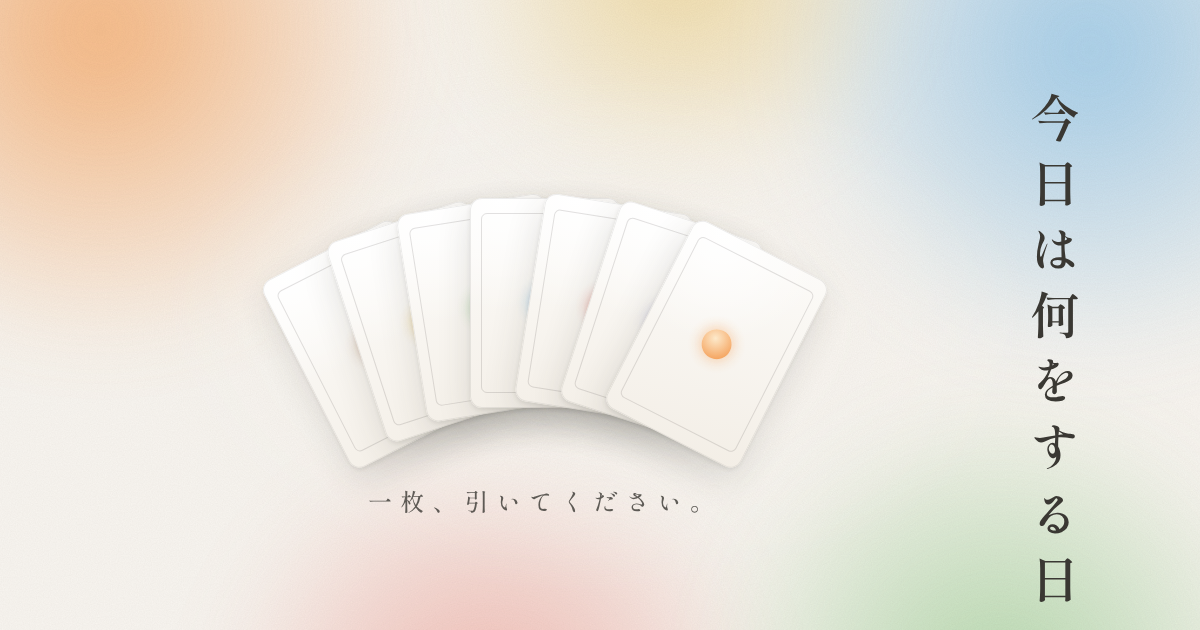
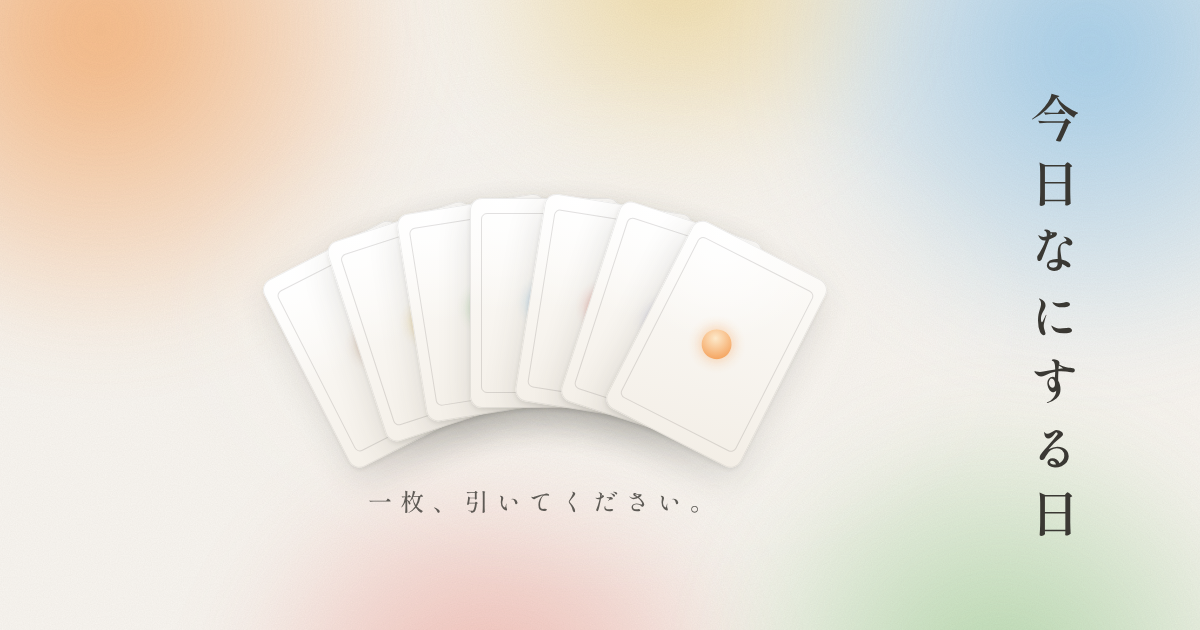
Add files via upload

diff --git a/privacy.html b/privacy.html
@@ -1,0 +1,155 @@
+<!doctype html>
+<html lang="ja">
+<head>
+<meta charset="utf-8">
+<meta name="viewport" content="width=device-width, initial-scale=1, viewport-fit=cover">
+<title>プライバシーポリシー｜今日なにする日</title>
+<meta name="description" content="iPhone・iPad アプリ「今日なにする日」のプライバシーポリシーです。">
+<meta name="theme-color" content="#f8f5f0">
+<link rel="icon" type="image/png" href="apple-touch-icon.png">
+<link rel="apple-touch-icon" href="apple-touch-icon.png">
+<link rel="preconnect" href="https://fonts.googleapis.com">
+<link rel="preconnect" href="https://fonts.gstatic.com" crossorigin>
+<link rel="stylesheet" href="https://fonts.googleapis.com/css2?family=Shippori+Mincho:wght@400;500;600&display=swap">
+<style>
+/* 文書のページ。曜日の色がにじむ地の上に、紙を一枚置いて読む。 */
+:root {
+  --bg: #f8f5f0;
+  --paper: rgba(255, 255, 255, .78);
+  --ink: #3a3833;
+  --sub: #6b665d;
+  --line: rgba(58, 56, 51, .14);
+  --mark: #c98a5a;
+  --font: "Shippori Mincho", "Hiragino Mincho ProN", "Yu Mincho", "YuMincho", "Noto Serif JP", serif;
+  color-scheme: light;
+}
+*, *::before, *::after { box-sizing: border-box; }
+html { -webkit-text-size-adjust: 100%; }
+body {
+  margin: 0; min-height: 100vh;
+  background: var(--bg); color: var(--ink);
+  font-family: var(--font); font-size: 16px; line-height: 1.95;
+  padding-left: max(16px, env(safe-area-inset-left, 0px));
+  padding-right: max(16px, env(safe-area-inset-right, 0px));
+  padding-block: calc(env(safe-area-inset-top, 0px) + 40px) calc(env(safe-area-inset-bottom, 0px) + 48px);
+}
+body::before {
+  content: ""; position: fixed; inset: 0; z-index: -1; pointer-events: none;
+  background:
+    radial-gradient(40vmax 34vmax at 0% 0%, rgba(245, 160, 88, .38), transparent 70%),
+    radial-gradient(40vmax 34vmax at 100% 4%, rgba(125, 187, 230, .36), transparent 70%),
+    radial-gradient(42vmax 34vmax at 100% 100%, rgba(150, 204, 142, .32), transparent 70%),
+    radial-gradient(36vmax 30vmax at 20% 100%, rgba(233, 118, 106, .2), transparent 70%);
+  filter: blur(8px);
+}
+.doc {
+  max-width: 680px; margin: 0 auto;
+  background: var(--paper);
+  border: 1px solid rgba(255, 255, 255, .8);
+  border-radius: 20px;
+  box-shadow: 0 18px 50px rgba(58, 56, 51, .08), 0 1px 3px rgba(58, 56, 51, .06);
+  padding: clamp(28px, 6vw, 56px) clamp(20px, 6vw, 56px);
+}
+.eyebrow { margin: 0; font-size: 13px; letter-spacing: .3em; color: var(--sub); }
+.eyebrow a { color: inherit; text-decoration: none; }
+.eyebrow a:hover { text-decoration: underline; }
+h1 { margin: 6px 0 0; font-size: clamp(24px, 5.5vw, 30px); font-weight: 600; letter-spacing: .12em; line-height: 1.5; text-wrap: balance; }
+.updated { margin: 10px 0 0; font-size: 13px; color: var(--sub); letter-spacing: .08em; }
+.lead { margin: 28px 0 0; }
+section { margin-top: 36px; padding-top: 28px; border-top: 1px solid var(--line); }
+h2 { display: flex; align-items: baseline; gap: 10px; margin: 0; font-size: 18px; font-weight: 600; letter-spacing: .08em; line-height: 1.6; }
+h2::before { content: ""; flex: none; width: 8px; height: 8px; border-radius: 50%; background: var(--mark); transform: translateY(-2px); }
+p { margin: 12px 0 0; }
+ul, ol { margin: 12px 0 0; padding-left: 1.4em; }
+li + li { margin-top: 6px; }
+.path { white-space: nowrap; }
+a { color: #8a5a3c; text-underline-offset: 3px; }
+.mail { font-size: 17px; letter-spacing: .02em; word-break: break-all; user-select: all; -webkit-user-select: all; }
+.note { font-size: 14px; color: var(--sub); }
+footer { max-width: 680px; margin: 24px auto 0; display: flex; flex-wrap: wrap; justify-content: center; gap: 8px 22px; font-size: 13px; letter-spacing: .1em; }
+footer a { color: var(--sub); text-decoration: none; }
+footer a:hover, footer a:focus-visible { text-decoration: underline; }
+a:focus-visible { outline: 2px solid var(--ink); outline-offset: 3px; border-radius: 3px; }
+</style>
+</head>
+<body>
+<main class="doc">
+  <p class="eyebrow"><a href="./">今日なにする日</a></p>
+  <h1>プライバシーポリシー</h1>
+  <p class="updated">最終更新日：2026年11月　運営者：まいら</p>
+
+  <p class="lead">iPhone・iPad アプリ「今日なにする日」（以下「本アプリ」）は、利用者のプライバシーを尊重し、個人情報の保護に努めます。</p>
+
+  <section>
+    <h2>収集する情報</h2>
+    <p>本アプリは、氏名・メールアドレス・電話番号・位置情報などの個人情報を収集しません。アカウントの登録もありません。</p>
+  </section>
+
+  <section>
+    <h2>本アプリが保存する情報</h2>
+    <p>本アプリは、次の情報を保存します。</p>
+    <ul>
+      <li>引いたカードのお題と、引いた日時</li>
+      <li>利用者が書いた「ひとこと」</li>
+      <li>夜のお知らせのオン・オフと時刻</li>
+    </ul>
+    <p>お題・日時・ひとことは、お使いの端末の中と、利用者ご自身の iCloud（Apple のサービス）に保存されます。iCloud に保存するのは、同じ Apple アカウントでサインインしている iPhone や iPad で、同じ記録を見られるようにするためです。iCloud に保存された記録は、利用者ご本人の Apple アカウントでしか読むことができず、運営者が見ることはできません。</p>
+    <p>お知らせの設定は、お使いの端末の中にだけ保存されます。</p>
+  </section>
+
+  <section>
+    <h2>通信について</h2>
+    <ul>
+      <li>お題の一覧を最新の状態にするため、運営者が GitHub Pages（GitHub, Inc. のサービス）に置いているお題のファイルを読み込みます。このとき、本アプリから利用者の情報を送ることはありません。ただし、一般的な Web サイトへのアクセスと同じように、GitHub がアクセス元の IP アドレスなどを記録する場合があります。</li>
+      <li>iCloud との同期は Apple の仕組みで行われ、Apple のプライバシーポリシーが適用されます。</li>
+    </ul>
+  </section>
+
+  <section>
+    <h2>夜のお知らせについて</h2>
+    <p>夜のお知らせは、お使いの端末の中で予約して表示するものです。運営者のサーバーから送るものではありません。お知らせは、端末の「設定」からいつでも止められます。</p>
+  </section>
+
+  <section>
+    <h2>X などへの共有について</h2>
+    <p>「Xで宣言する」を押すと、X（旧 Twitter）の投稿画面が開きます。共有ボタンを押すと、iPhone・iPad の共有画面が開きます。どちらも、投稿や送信をするかどうかは利用者が決めるもので、本アプリが自動で投稿・送信することはありません。投稿した内容には、投稿先のサービスのプライバシーポリシーが適用されます。</p>
+  </section>
+
+  <section>
+    <h2>第三者への提供・広告・解析</h2>
+    <p>本アプリは、広告や、利用状況を分析するためのツールを使用していません。利用者の情報を第三者に提供することもありません。</p>
+    <p>なお、利用者が端末の設定で「App デベロッパと共有」をオンにしている場合、本アプリが異常終了したときの報告（クラッシュ情報）が、Apple を通じて運営者に届くことがあります。この報告は、不具合を直すためにだけ使います。</p>
+  </section>
+
+  <section>
+    <h2>記録の削除</h2>
+    <ul>
+      <li>端末の中の記録は、本アプリを削除すると消えます。</li>
+      <li>iCloud に保存された記録は、iPhone・iPad の「設定」→ 自分の名前 →「iCloud」→「アカウントのストレージを管理」→「今日なにする日」から削除できます。</li>
+    </ul>
+  </section>
+
+  <section>
+    <h2>本ポリシーの変更</h2>
+    <p>本ポリシーの内容を変更する場合は、このページでお知らせします。</p>
+  </section>
+
+  <section>
+    <h2>Web版について</h2>
+    <p>Web版の「今日なにする日」（このサイト）では、引いたカードとお題を、お使いのブラウザの中にだけ記録します。記録は1週間ほどで消え、運営者に送られることはありません。ページの表示のために、Google Fonts（Google のサービス）から文字の形（フォント）を読み込みます。このとき、GitHub や Google が IP アドレスなどのアクセス情報を記録する場合があります。</p>
+  </section>
+
+  <section>
+    <h2>お問い合わせ</h2>
+    <p>本ポリシーに関するご質問は、下記のメールアドレスまでご連絡ください。</p>
+    <p><a class="mail" href="mailto:myramyra9myramyra@gmail.com">myramyra9myramyra@gmail.com</a></p>
+    <p class="note">よくあるご質問は、<a href="support.html">サポートページ</a>にまとめています。</p>
+  </section>
+</main>
+<footer>
+  <a href="./">今日なにする日</a>
+  <a href="support.html">サポート</a>
+  <a href="privacy.html" aria-current="page">プライバシーポリシー</a>
+</footer>
+</body>
+</html>

diff --git a/support.html b/support.html
@@ -1,0 +1,153 @@
+<!doctype html>
+<html lang="ja">
+<head>
+<meta charset="utf-8">
+<meta name="viewport" content="width=device-width, initial-scale=1, viewport-fit=cover">
+<title>サポート｜今日なにする日</title>
+<meta name="description" content="iPhone・iPad アプリ「今日なにする日」のよくあるご質問と、お問い合わせ先です。">
+<meta name="theme-color" content="#f8f5f0">
+<link rel="icon" type="image/png" href="apple-touch-icon.png">
+<link rel="apple-touch-icon" href="apple-touch-icon.png">
+<link rel="preconnect" href="https://fonts.googleapis.com">
+<link rel="preconnect" href="https://fonts.gstatic.com" crossorigin>
+<link rel="stylesheet" href="https://fonts.googleapis.com/css2?family=Shippori+Mincho:wght@400;500;600&display=swap">
+<style>
+/* 文書のページ。曜日の色がにじむ地の上に、紙を一枚置いて読む。 */
+:root {
+  --bg: #f8f5f0;
+  --paper: rgba(255, 255, 255, .78);
+  --ink: #3a3833;
+  --sub: #6b665d;
+  --line: rgba(58, 56, 51, .14);
+  --mark: #c98a5a;
+  --font: "Shippori Mincho", "Hiragino Mincho ProN", "Yu Mincho", "YuMincho", "Noto Serif JP", serif;
+  color-scheme: light;
+}
+*, *::before, *::after { box-sizing: border-box; }
+html { -webkit-text-size-adjust: 100%; }
+body {
+  margin: 0; min-height: 100vh;
+  background: var(--bg); color: var(--ink);
+  font-family: var(--font); font-size: 16px; line-height: 1.95;
+  padding-left: max(16px, env(safe-area-inset-left, 0px));
+  padding-right: max(16px, env(safe-area-inset-right, 0px));
+  padding-block: calc(env(safe-area-inset-top, 0px) + 40px) calc(env(safe-area-inset-bottom, 0px) + 48px);
+}
+body::before {
+  content: ""; position: fixed; inset: 0; z-index: -1; pointer-events: none;
+  background:
+    radial-gradient(40vmax 34vmax at 0% 0%, rgba(245, 160, 88, .38), transparent 70%),
+    radial-gradient(40vmax 34vmax at 100% 4%, rgba(125, 187, 230, .36), transparent 70%),
+    radial-gradient(42vmax 34vmax at 100% 100%, rgba(150, 204, 142, .32), transparent 70%),
+    radial-gradient(36vmax 30vmax at 20% 100%, rgba(233, 118, 106, .2), transparent 70%);
+  filter: blur(8px);
+}
+.doc {
+  max-width: 680px; margin: 0 auto;
+  background: var(--paper);
+  border: 1px solid rgba(255, 255, 255, .8);
+  border-radius: 20px;
+  box-shadow: 0 18px 50px rgba(58, 56, 51, .08), 0 1px 3px rgba(58, 56, 51, .06);
+  padding: clamp(28px, 6vw, 56px) clamp(20px, 6vw, 56px);
+}
+.eyebrow { margin: 0; font-size: 13px; letter-spacing: .3em; color: var(--sub); }
+.eyebrow a { color: inherit; text-decoration: none; }
+.eyebrow a:hover { text-decoration: underline; }
+h1 { margin: 6px 0 0; font-size: clamp(24px, 5.5vw, 30px); font-weight: 600; letter-spacing: .12em; line-height: 1.5; text-wrap: balance; }
+.updated { margin: 10px 0 0; font-size: 13px; color: var(--sub); letter-spacing: .08em; }
+.lead { margin: 28px 0 0; }
+section { margin-top: 36px; padding-top: 28px; border-top: 1px solid var(--line); }
+h2 { display: flex; align-items: baseline; gap: 10px; margin: 0; font-size: 18px; font-weight: 600; letter-spacing: .08em; line-height: 1.6; }
+h2::before { content: ""; flex: none; width: 8px; height: 8px; border-radius: 50%; background: var(--mark); transform: translateY(-2px); }
+p { margin: 12px 0 0; }
+ul, ol { margin: 12px 0 0; padding-left: 1.4em; }
+li + li { margin-top: 6px; }
+.path { white-space: nowrap; }
+a { color: #8a5a3c; text-underline-offset: 3px; }
+.mail { font-size: 17px; letter-spacing: .02em; word-break: break-all; user-select: all; -webkit-user-select: all; }
+.note { font-size: 14px; color: var(--sub); }
+footer { max-width: 680px; margin: 24px auto 0; display: flex; flex-wrap: wrap; justify-content: center; gap: 8px 22px; font-size: 13px; letter-spacing: .1em; }
+footer a { color: var(--sub); text-decoration: none; }
+footer a:hover, footer a:focus-visible { text-decoration: underline; }
+a:focus-visible { outline: 2px solid var(--ink); outline-offset: 3px; border-radius: 3px; }
+</style>
+</head>
+<body>
+<main class="doc">
+  <p class="eyebrow"><a href="./">今日なにする日</a></p>
+  <h1>サポート</h1>
+  <p class="updated">運営者：まいら</p>
+
+  <p class="lead">「今日なにする日」をご利用いただき、ありがとうございます。よくあるご質問をまとめました。</p>
+
+  <section>
+    <h2>カードを引き直したい</h2>
+    <p>カードを引けるのは、1日に1枚だけです。日付が変わると、新しいカードを引けます。</p>
+  </section>
+
+  <section>
+    <h2>友だちと同じお題が出ない</h2>
+    <p>お題は、カードを引いたときにランダムで決まるので、人によって違うお題が出ます。また、すべてのお題をひととおり引き終えるまで、同じお題は出ません。</p>
+  </section>
+
+  <section>
+    <h2>「ひとこと」を書くには</h2>
+    <p>次の3つの方法で書けます。</p>
+    <ul>
+      <li>今日画面で、引いたカードをタップする（カードが裏返って、書く画面が開きます）</li>
+      <li>夜のお知らせをタップする</li>
+      <li>左上のボタンからカレンダーを開き、日付をタップする</li>
+    </ul>
+    <p>書いた内容は、自動で保存されます。</p>
+  </section>
+
+  <section>
+    <h2>夜のお知らせが届かない</h2>
+    <p>夜のお知らせは、カードを引いた日の夜に1回だけ届きます。次の場合は届きません。</p>
+    <ul>
+      <li>その日のカードを引いていない</li>
+      <li>お知らせの時刻より前に、ひとことを書き終えている</li>
+      <li>お知らせの時刻を過ぎてから、カードを引いた</li>
+    </ul>
+    <p>それでも届かない場合は、次をご確認ください。</p>
+    <ul>
+      <li>カレンダー画面の右上の歯車から設定を開き、「夜のお知らせ」がオンになっているか</li>
+      <li>iPhone の「設定」→「通知」→「今日なにする日」で、通知が許可されているか</li>
+      <li>集中モードなどで、通知を止めていないか</li>
+    </ul>
+  </section>
+
+  <section>
+    <h2>これまでのお題とひとことを見たい</h2>
+    <p>左上のボタンからカレンダーを開くと、カードを引いた日に小さなカードが並びます。ひとことを書いた日には、インクの点が付きます。日付をタップすると、その日のお題とひとことを見られます。</p>
+  </section>
+
+  <section>
+    <h2>iPad など、ほかの端末に記録が出ない</h2>
+    <p>記録は iCloud を通じて、同じ Apple アカウントでサインインしている iPhone・iPad の間で共有されます。次をご確認ください。</p>
+    <ul>
+      <li>どちらの端末も、同じ Apple アカウントで iCloud にサインインしているか</li>
+      <li>「設定」→ 自分の名前 →「iCloud」の「iCloud を使用している App」で、「今日なにする日」がオンになっているか</li>
+    </ul>
+    <p>記録が届くまで、少し時間がかかることがあります。アプリを一度閉じて開き直すと、届くことがあります。</p>
+  </section>
+
+  <section>
+    <h2>機種変更をしたとき</h2>
+    <p>新しい端末で、前と同じ Apple アカウントで iCloud にサインインしてから本アプリを入れると、これまでの記録が戻ります。記録が届くまで、少し時間がかかることがあります。</p>
+  </section>
+
+  <section>
+    <h2>その他のお問い合わせ</h2>
+    <p>上記で解決しない場合や、ご意見・ご感想は、下記のメールアドレスまでご連絡ください。</p>
+    <p><a class="mail" href="mailto:myramyra9myramyra@gmail.com">myramyra9myramyra@gmail.com</a></p>
+    <p class="note">情報の取り扱いについては、<a href="privacy.html">プライバシーポリシー</a>をご覧ください。</p>
+  </section>
+</main>
+<footer>
+  <a href="./">今日なにする日</a>
+  <a href="support.html" aria-current="page">サポート</a>
+  <a href="privacy.html">プライバシーポリシー</a>
+</footer>
+</body>
+</html>

diff --git a/index.html b/index.html
@@ -3,7 +3,7 @@
 <head>
 <meta charset="utf-8">
 <meta name="viewport" content="width=device-width, initial-scale=1, viewport-fit=cover">
-<title>今日は何をする日</title>
+<title>今日なにする日</title>
 <meta name="description" content="毎日一枚カードを引いて、今日することを決めるページ。役には立たないけれど、いつもの景色が少し違って見えるお題が出ます。">
 <meta name="theme-color" content="#f2f8f0">
 
@@ -16,19 +16,19 @@
 
 <meta property="og:type" content="website">
 <meta property="og:locale" content="ja_JP">
-<meta property="og:site_name" content="今日は何をする日">
-<meta property="og:title" content="今日は何をする日">
+<meta property="og:site_name" content="今日なにする日">
+<meta property="og:title" content="今日なにする日">
 <meta property="og:description" content="毎日一枚カードを引いて、今日することを決めるページ。役には立たないけれど、いつもの景色が少し違って見えるお題が出ます。">
 <meta property="og:image:width" content="1200">
 <meta property="og:image:height" content="630">
-<meta property="og:image:alt" content="伏せられたカードが扇形に並び、「今日は何をする日」と縦書きで添えられた画像">
+<meta property="og:image:alt" content="伏せられたカードが扇形に並び、「今日なにする日」と縦書きで添えられた画像">
 <meta name="twitter:card" content="summary_large_image">
-<meta name="twitter:title" content="今日は何をする日">
+<meta name="twitter:title" content="今日なにする日">
 <meta name="twitter:description" content="毎日一枚カードを引いて、今日することを決めるページ。">
 
 <link rel="icon" type="image/png" href="apple-touch-icon.png">
 <link rel="apple-touch-icon" href="apple-touch-icon.png">
-<meta name="apple-mobile-web-app-title" content="今日は何をする日">
+<meta name="apple-mobile-web-app-title" content="今日なにする日">
 
 <link rel="preconnect" href="https://fonts.googleapis.com">
 <link rel="preconnect" href="https://fonts.gstatic.com" crossorigin>
@@ -277,7 +277,7 @@ body {
 
 <main class="scene">
   <header class="mark">
-    <h1>今日は何をする日</h1>
+    <h1>今日なにする日</h1>
     <p class="date" id="date"></p>
   </header>
 
@@ -431,7 +431,7 @@ const PALETTES = [
     odaiEl.replaceChildren(...lines.map(t => { const s = document.createElement("span"); s.className = "ln"; s.textContent = t; return s; }));
     stage.setAttribute("aria-label", "今日のお題：" + text);
 
-    shareMsg = `今日は何をする日？\n${text}\n#今日は何をする日`;
+    shareMsg = `${text}\n#今日なにする日`;
     shareX.href = "https://twitter.com/intent/tweet?text=" + encodeURIComponent(shareMsg) + "&url=" + encodeURIComponent(SITE);
     shareText.textContent = shareMsg + "\n" + SITE; shareText.hidden = true;
     shareCopy.textContent = "文をコピー";

diff --git a/README.md b/README.md
@@ -1,4 +1,4 @@
-# 今日は何をする日
+# 今日なにする日
 
 毎日一枚カードを引いて、今日することを決めるページ。
 公開先：https://mrrmmrrmmrrm.github.io/kyou-nani/
@@ -11,6 +11,8 @@
 | odai.json | お題の一覧（Web版とアプリで共通） |
 | ogp.png | Xなどに URL を貼ったときに出るカード画像（1200×630） |
 | apple-touch-icon.png | ホーム画面に追加したときのアイコン、ブラウザのタブのアイコン |
+| privacy.html | アプリのプライバシーポリシー（App Store Connect の「プライバシーポリシー URL」） |
+| support.html | アプリのサポートページ（App Store Connect の「サポート URL」） |
 
 リポジトリ名を `kyou-nani` 以外にした場合は、index.html の上のほうにある
 「▼ リポジトリ名を変えたら」の4か所を新しい名前に直してください。
